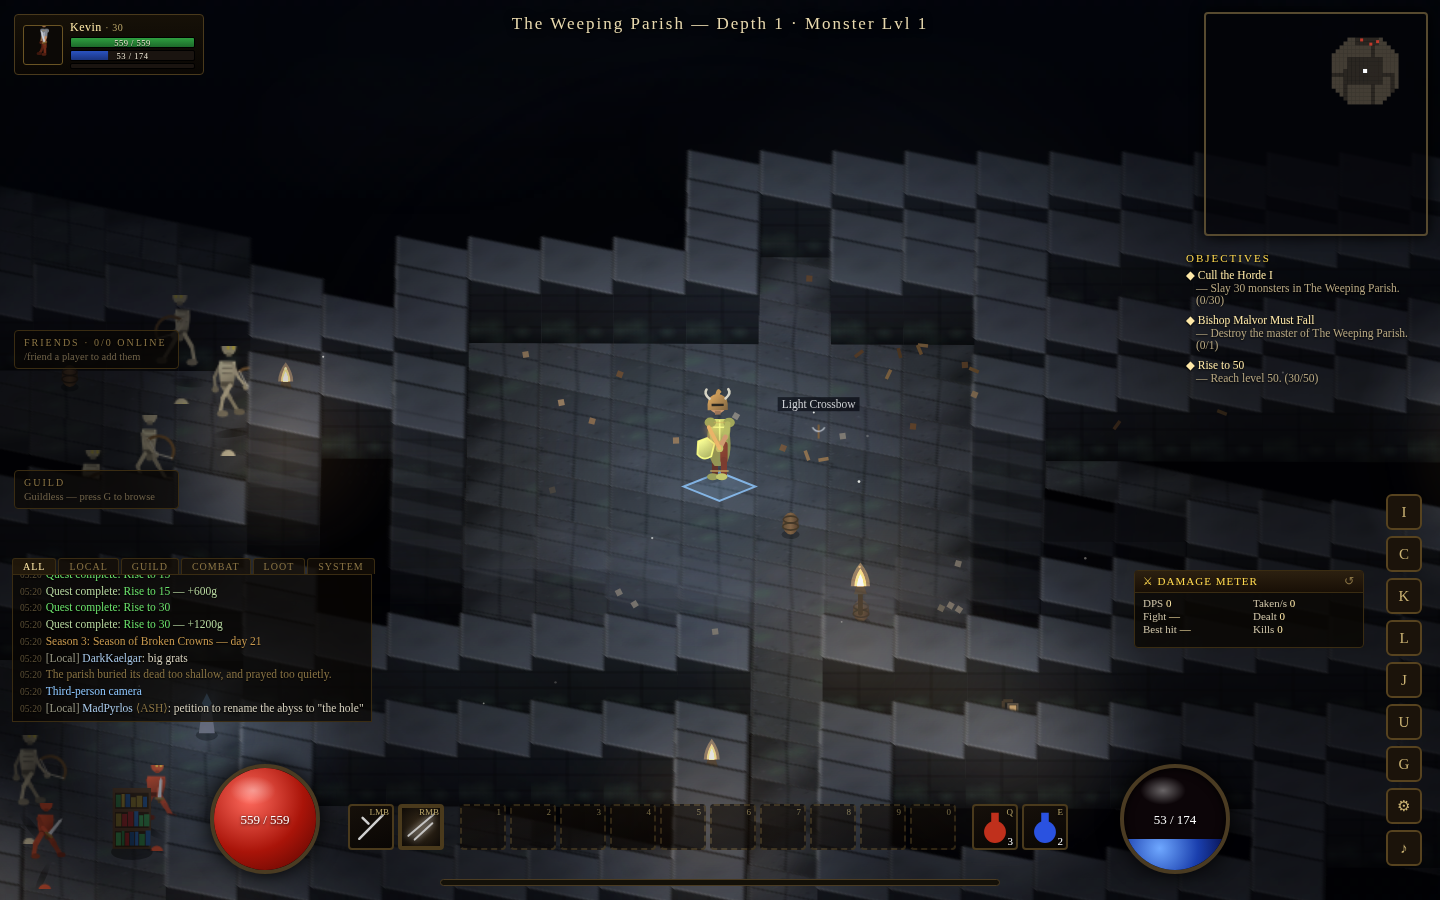
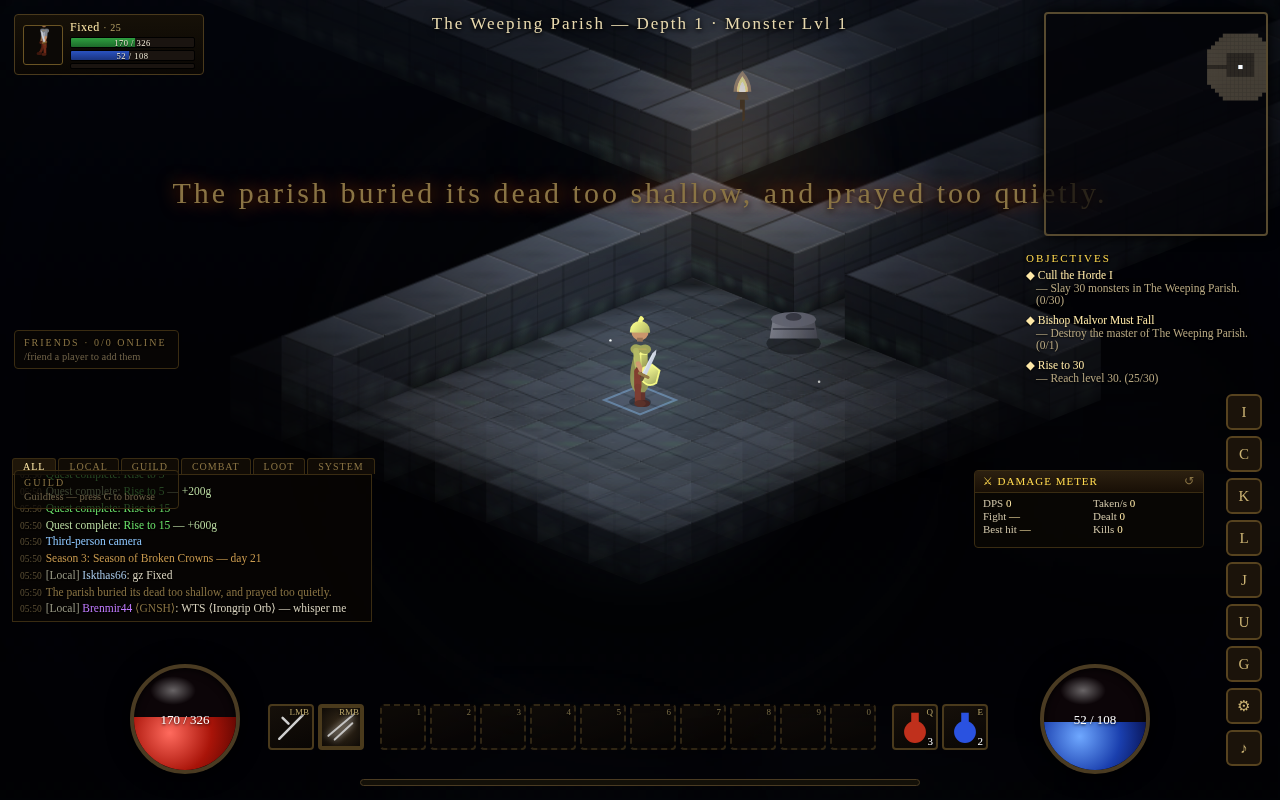
Fix third-person camera: tile transform, control inversion, world drift
Alpha testers reported the third-person view warping the world, moving
walls and floors, and inverting movement. Three distinct defects:

1. Tile transform was wrong. Cam.tileMatrix() returned 2*z*p*sin for the
   b term instead of z*p*sin. At yaw 0 that factor is multiplied by
   sin(0) = 0, so isometric was always correct and the bug only appeared
   once the camera rotated - which is why it shipped. Floors and wall
   tops were projected up to 486px away from where entities standing on
   them were drawn, so the ground visibly slid out from under characters
   and sheared as the camera turned. Derived the matrix again from
   P(zoom,pitch) R(yaw) P(1,0.5)^-1 and verified it numerically to
   machine precision across yaw, zoom and pitch.

2. Movement ignored the camera. WASD was always converted to world axes
   using the fixed yaw-0 basis, so once the view rotated the controls no
   longer matched the screen and felt inverted. Input is now rotated by
   -yaw, so up-the-screen is always away from the viewer.

3. The camera drove itself. Third person auto-swung its yaw to track the
   hero's facing and pushed its focus point ahead of them, so the world
   appeared to spin and slide whenever the player turned - and because
   movement direction depended on yaw, the two fed back into each other.
   The camera is now a free orbit centred on the character: it turns only
   when the player turns it, via held rotate keys or a middle-mouse drag
   for combined yaw and pitch.
[…]

diff --git a/js/camera.js b/js/camera.js
@@ -23,9 +23,7 @@ const Cam = {
   },
   ZOOM_MIN: 0.55, ZOOM_MAX: 2.8,
   PITCH_MIN: 0.22, PITCH_MAX: 0.85,
-  follow: 2.4,        // third-person: how far the focus leads ahead of the hero
-  turnRate: 3.2,      // third-person yaw tracking speed
-  snap: false,        // iso mode: keep yaw locked to 0
+  orbitSpeed: 2.2,    // radians/second while a rotate key is held
 
   KEY: 'cam_v1',
 
@@ -34,13 +32,13 @@ const Cam = {
     if (s) {
       this.mode = s.mode || 'iso';
       if (s.prefs) this.prefs = Object.assign(this.prefs, s.prefs);
-      this.follow = s.follow !== undefined ? s.follow : this.follow;
+      this.orbitSpeed = s.orbitSpeed !== undefined ? s.orbitSpeed : this.orbitSpeed;
     }
     this.applyPrefs(true);
   },
   _load() { try { return JSON.parse(localStorage.getItem(this.KEY) || 'null'); } catch (e) { return null; } },
   save() {
-    try { localStorage.setItem(this.KEY, JSON.stringify({ mode: this.mode, prefs: this.prefs, follow: this.follow })); } catch (e) {}
+    try { localStorage.setItem(this.KEY, JSON.stringify({ mode: this.mode, prefs: this.prefs, orbitSpeed: this.orbitSpeed })); } catch (e) {}
   },
 
   applyPrefs(instant) {
@@ -79,43 +77,42 @@ const Cam = {
     this.pitchTarget = p.pitch;
     this.save();
   },
-  // manual yaw nudge — allowed in both modes; iso snaps back to axis-aligned
+  // Free orbit around the hero — the camera moves, the world does not.
+  orbit(dYaw, dPitch) {
+    this.yawTarget += dYaw;
+    if (dPitch) this.setPitch(this.prefs[this.mode].pitch + dPitch);
+    if (dYaw) this.save();
+  },
+  // discrete nudge: iso keeps its axis-aligned snap, third person turns freely
   rotate(dir) {
     if (this.mode === 'iso') {
       this.yawTarget = Math.round((this.yawTarget + dir * Math.PI / 2) / (Math.PI / 2)) * (Math.PI / 2);
     } else {
       this.yawTarget += dir * Math.PI / 4;
-      this.manualT = 2.5; // pause auto-follow briefly after a manual turn
     }
   },
-  manualT: 0,
 
   // ---------------- per-frame ----------------
   update(dt, pl) {
     if (!pl) return;
-    // focus: hero, nudged forward in third person so more of the view is ahead
-    let tfx = pl.x, tfy = pl.y;
-    if (this.mode === 'third') {
-      tfx += Math.cos(pl.dir) * this.follow * 0.35;
-      tfy += Math.sin(pl.dir) * this.follow * 0.35;
-      if (this.manualT > 0) this.manualT -= dt;
-      else {
-        // swing behind the hero: their facing should point up-screen
-        this.yawTarget = 5 * Math.PI / 4 - pl.dir;
-      }
-    } else this.yawTarget = Math.round(this.yawTarget / (Math.PI / 2)) * (Math.PI / 2);
+    // The orbit is centred on the hero in both modes. Nothing leads ahead of
+    // them and nothing tracks their facing, so the world only appears to turn
+    // when the player actually asks the camera to turn.
+    const tfx = pl.x, tfy = pl.y;
+    if (this.mode === 'iso')
+      this.yawTarget = Math.round(this.yawTarget / (Math.PI / 2)) * (Math.PI / 2);
 
-    // focus easing (snappier in iso so the classic view feels locked)
-    const fk = this.mode === 'third' ? 1 - Math.pow(0.0006, dt) : 1;
+    // focus easing — third person lags a touch so movement feels weighty
+    const fk = this.mode === 'third' ? 1 - Math.pow(0.0000004, dt) : 1;
     this.fx += (tfx - this.fx) * fk;
     this.fy += (tfy - this.fy) * fk;
-    if (!isFinite(this.fx)) { this.fx = pl.x; this.fy = pl.y; }
+    if (!isFinite(this.fx) || !isFinite(this.fy)) { this.fx = pl.x; this.fy = pl.y; }
 
     // yaw takes the short way round
     let dy = this.yawTarget - this.yaw;
     while (dy > Math.PI) dy -= Math.PI * 2;
     while (dy < -Math.PI) dy += Math.PI * 2;
-    this.yaw += dy * Math.min(1, dt * (this.mode === 'third' ? this.turnRate : 7));
+    this.yaw += dy * Math.min(1, dt * 9);
     while (this.yaw > Math.PI * 2) { this.yaw -= Math.PI * 2; this.yawTarget -= Math.PI * 2; }
     while (this.yaw < -Math.PI * 2) { this.yaw += Math.PI * 2; this.yawTarget += Math.PI * 2; }
 
@@ -125,9 +122,17 @@ const Cam = {
 
     // cached projection scalars
     this.cos = Math.cos(this.yaw); this.sin = Math.sin(this.yaw);
-    this.ux = ISO_X * this.zoom;             // screen-x per rotated world unit
+    this.ux = ISO_X * this.zoom;              // screen-x per rotated world unit
     this.uy = ISO_X * this.zoom * this.pitch; // screen-y per rotated world unit
     this.rotated = Math.abs(this.sin) > 0.0015 || Math.abs(this.cos - 1) > 0.0015;
+  },
+
+  // Screen-relative input -> world direction. Undoes the camera yaw so "up
+  // the screen" is always away from the viewer, whatever the orbit angle.
+  screenToWorldDir(mx, my) {
+    const wx = mx + my, wy = my - mx;          // classic iso basis (yaw 0)
+    const c = this.cos, s = this.sin;
+    return [wx * c + wy * s, -wx * s + wy * c]; // R(-yaw)
   },
 
   // world -> rotated frame (relative to focus)
@@ -142,12 +147,17 @@ const Cam = {
     return (dx * this.sin + dy * this.cos) + (dx * this.cos - dy * this.sin);
   },
 
-  // Transform mapping a base-projected tile sprite into the current view.
-  // Derived from  T = P(zoom,pitch)·R(yaw)·P(1,0.5)⁻¹  so pre-baked diamond
-  // tiles stay pixel-correct under arbitrary rotation.
+  // Transform mapping a base-projected tile sprite into the current view:
+  //   T = P(zoom,pitch) · R(yaw) · P(1, 0.5)⁻¹
+  // With ISO_Y = ISO_X/2 this works out to
+  //   [ z·cos     -2z·sin  ]
+  //   [ z·p·sin    2z·p·cos]
+  // returned column-major as [a, b, c, d] for setTransform(a,b,c,d,e,f).
+  // Every term must agree exactly with worldToScreen or the floor slides out
+  // from under the entities standing on it — see the regression test.
   tileMatrix() {
     const z = this.zoom, p = this.pitch, c = this.cos, s = this.sin;
-    return [c * z, s * z * p * 2, -s * z * 2, c * z * p * 2];
+    return [c * z, s * z * p, -s * z * 2, c * z * p * 2];
   },
 
   // how far (in tiles) the visible frustum reaches from the focus

diff --git a/js/wui.js b/js/wui.js
@@ -701,7 +701,7 @@ const WUI = {
       case 'dps': this.chat('sys', `Rolling DPS: ${U.fmt(Math.round(this.rolling(this.dps.samples, 8)))}`); break;
       case 'resetui': this.layout = {}; this._save(this.LAYK, this.layout); location.reload(); break;
       case 'editui': this.setEditMode(true); break;
-      case 'macro': UI.open('settings'); this.settingsTab = 5; this.renderSettings(); break;
+      case 'macro': UI.open('settings'); this.settingsTab = this.SETTINGS_TABS.indexOf('MACROS'); this.renderSettings(); break;
       default: this.chat('sys', `Unknown command: /${U.esc(cmd)} — try /help`, '#ff6a5a');
     }
   },
@@ -877,18 +877,11 @@ const WUI = {
       i.addEventListener('input', () => Cam.setPitch(i.value / 100));
       r.appendChild(i);
     });
-    row('Follow distance', 'Third person only — how far ahead the camera leads', r => {
+    row('Orbit speed', 'How fast the rotate keys swing the camera around you', r => {
       const i = document.createElement('input');
-      i.type = 'range'; i.min = 0; i.max = 60;
-      i.value = Math.round(Cam.follow * 10);
-      i.addEventListener('input', () => { Cam.follow = i.value / 10; Cam.save(); });
-      r.appendChild(i);
-    });
-    row('Turn speed', 'How quickly the third-person camera swings behind you', r => {
-      const i = document.createElement('input');
-      i.type = 'range'; i.min = 8; i.max = 90;
-      i.value = Math.round(Cam.turnRate * 10);
-      i.addEventListener('input', () => { Cam.turnRate = i.value / 10; });
+      i.type = 'range'; i.min = 5; i.max = 60;
+      i.value = Math.round(Cam.orbitSpeed * 10);
+      i.addEventListener('input', () => { Cam.orbitSpeed = i.value / 10; Cam.save(); });
       r.appendChild(i);
     });
     this.wsToggle(body, 'Physics debris', 'Smashed props throw bouncing, rolling chunks', 'physics',
@@ -901,7 +894,7 @@ const WUI = {
     b.textContent = 'Reset';
     b.addEventListener('click', () => {
       Cam.prefs = { iso: { zoom: 1.0, pitch: 0.50 }, third: { zoom: 1.6, pitch: 0.40 } };
-      Cam.follow = 2.4; Cam.turnRate = 3.2; Cam.applyPrefs(false); Cam.save();
+      Cam.orbitSpeed = 2.2; Cam.yawTarget = 0; Cam.applyPrefs(false); Cam.save();
       this.renderSettings();
     });
     r2.appendChild(b);
@@ -1248,8 +1241,8 @@ const WUI = {
     if (k === m.social) { UI.toggle('social'); return true; }
     if (k === m.guildp) { UI.toggle('guild'); return true; }
     if (k === m.camMode) { Cam.cycleMode(); return true; }
-    if (k === m.camRotL) { Cam.rotate(-1); return true; }
-    if (k === m.camRotR) { Cam.rotate(1); return true; }
+    if (k === m.camRotL) { if (Cam.mode === 'iso') Cam.rotate(-1); return true; }
+    if (k === m.camRotR) { if (Cam.mode === 'iso') Cam.rotate(1); return true; }
     if (k === m.camIn) { Cam.adjustZoom(0.12); return true; }
     if (k === m.camOut) { Cam.adjustZoom(-0.12); return true; }
     if (k === m.potHp) { Game.drinkPotion('hp'); return true; }

diff --git a/js/main.js b/js/main.js
@@ -623,13 +623,20 @@ const Game = {
       pl.mp = Math.min(d.maxMp, pl.mp + d.regenMp * dt);
     }
 
-    // movement (screen-relative, rebindable, mapped to iso world axes)
+    // camera orbit on held rotate keys — the camera moves, the world doesn't
     const km = WUI.keymap;
+    if (Cam.mode === 'third') {
+      const rot = (this.keys[km.camRotR] ? 1 : 0) - (this.keys[km.camRotL] ? 1 : 0);
+      if (rot) Cam.orbit(rot * Cam.orbitSpeed * dt, 0);
+    }
+
+    // movement is camera-relative: "up the screen" is always away from the
+    // viewer, so the controls stay correct at any orbit angle
     let mx = (this.keys[km.moveR] || this.keys['arrowright'] ? 1 : 0) - (this.keys[km.moveL] || this.keys['arrowleft'] ? 1 : 0);
     let my = (this.keys[km.moveD] || this.keys['arrowdown'] ? 1 : 0) - (this.keys[km.moveU] || this.keys['arrowup'] ? 1 : 0);
     pl.moving = false;
     if (!pl.dead && (mx || my)) {
-      let wx = mx + my, wy = my - mx;
+      let [wx, wy] = Cam.screenToWorldDir(mx, my);
       const len = Math.hypot(wx, wy);
       wx /= len; wy /= len;
       const spd = d.moveSpd * (G.map.town ? 1.15 : 1);
@@ -726,6 +733,22 @@ const Game = {
       if (e.button === 2) this.mouse.rmb = false;
     });
     cv.addEventListener('contextmenu', e => e.preventDefault());
+    cv.addEventListener('pointerdown', e => {
+      if (e.button !== 1) return;               // middle button orbits
+      e.preventDefault();
+      let lx = e.clientX, ly = e.clientY;
+      const move = ev => {
+        Cam.orbit((ev.clientX - lx) * 0.008, -(ev.clientY - ly) * 0.0016);
+        lx = ev.clientX; ly = ev.clientY;
+      };
+      const up = () => {
+        window.removeEventListener('pointermove', move);
+        window.removeEventListener('pointerup', up);
+      };
+      window.addEventListener('pointermove', move);
+      window.addEventListener('pointerup', up);
+    });
+    cv.addEventListener('auxclick', e => { if (e.button === 1) e.preventDefault(); });
     cv.addEventListener('wheel', e => {
       if (G.state !== 'game') return;
       e.preventDefault();

diff --git a/README.md b/README.md
@@ -131,14 +131,17 @@ via Edit Mode (layout persists between sessions):
 Two perspectives, a rigid-body layer, and an articulated body that wears what you equip.
 
 **Adjustable camera** — switch between the classic **Isometric** view and a **Third Person**
-camera that swings in behind your hero and follows their facing. Both perspectives expose
-independent, persisted settings:
+camera that **orbits freely around your hero, like a sphere**. The world is fixed: the level never
+moves on its own, your character moves through it, and the camera only turns when you turn it.
+Both perspectives expose independent, persisted settings:
 
 - **Zoom** 0.55×–2.8× on the mouse wheel, the `+`/`-` keys or a settings slider
-- **Pitch**, from near top-down to a low, horizon-heavy angle
-- **Free yaw rotation** — `[` and `]` rotate the world; iso snaps to 90°, third person turns
-  smoothly and auto-swings behind you after a manual nudge
-- **Follow distance** and **turn speed** for the third-person rig
+- **Pitch** (elevation), from near top-down to a low, horizon-heavy angle
+- **Free orbit** — hold `[` / `]` to swing around the hero, or drag with the middle mouse button
+  for combined yaw and pitch. Isometric keeps its 90° snap so the classic view stays square.
+- **Orbit speed** for the rotate keys
+- **Camera-relative movement** — W is always "away from the viewer" no matter where the camera
+  sits, so the controls never invert as you orbit
 - Walls between the camera and your hero **fade out** so a low angle never boxes you in
 
 Pre-rendered diamond tiles stay pixel-correct at any yaw: the camera matrix
@@ -219,7 +222,7 @@ ladder) walk the town, chatter, and react to what you do.
 | **J · O** | Quest log · Settings |
 | **U · G** | Social (friends) · Guild |
 | **V** | Toggle isometric / third-person camera |
-| **[ · ]** | Rotate camera · **wheel / + · -** — zoom |
+| **[ · ]** | Orbit camera (hold) · **middle-drag** — free orbit · **wheel / + · -** — zoom |
 | **Enter** | Chat (`/help` for commands) |
 | **N** | Mute · **Esc** — menu |
 | **Click** | Talk, loot, open, smash, activate |
